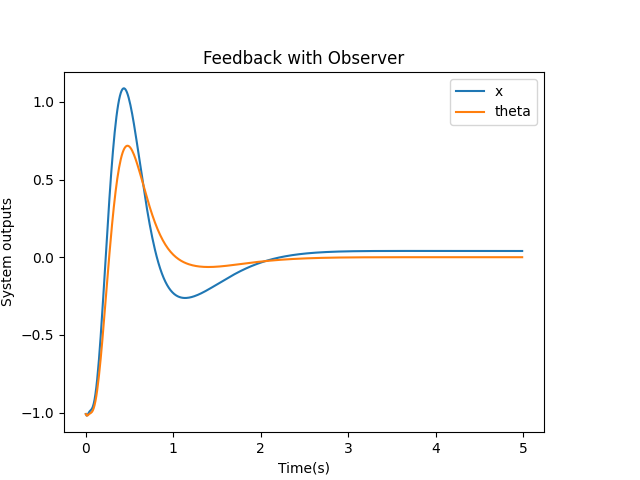
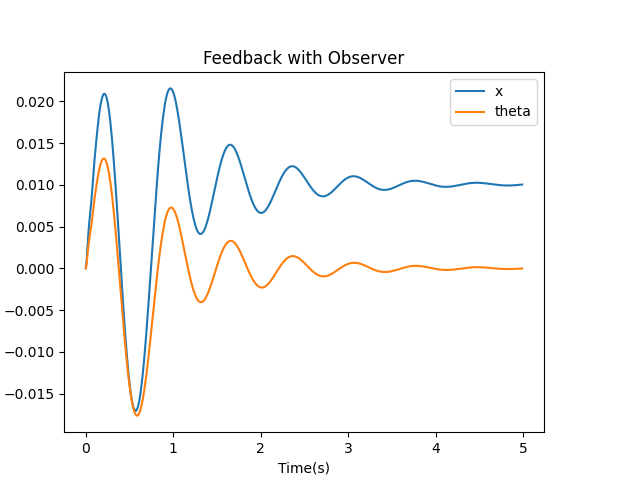
Fixed the 1.3 issue

diff --git a/scripts/questionOne.py b/scripts/questionOne.py
@@ -143,8 +143,6 @@ def dominantPoles(settlingTime: float,
     given a set of specifications, overshootPercent should be in 0->1 range
     """
     zeta, omega_n = dampingValues(settlingTime, settlingCriterion, overshootPerct)
-    print(zeta)
-    print(omega_n)
     imaginary = omega_n * math.sqrt(1 - (zeta**2))
     real = -zeta * omega_n
     roots = [{
@@ -177,8 +175,11 @@ def dampingValues(settlingTime: float,
     system given a set of specifications overshoot percentage should be in
     0 -> 1 range
     """
-    zeta = math.pow((math.pi/(math.log(overshootPercent)))**2 + 1, -0.5)
+    zeta = math.pow(((math.pi/(math.log(overshootPercent)))**2) + 1, -0.5)
     naturalFreq = 4/(zeta*settlingTime)
+    print(overshootPercent)
+    print(zeta)
+    print(naturalFreq)
     return zeta, naturalFreq
 
 

diff --git a/scripts/results/one_d.tex b/scripts/results/one_d.tex
@@ -1,5 +1,5 @@
 The observer was chosen to have eigenvalues 5 further out than the feedback. This resulted in eigenvalaues of:\begin{enumerate}
-\item$-13.333 \pm 1.213j$\\
+\item$-13.333 \pm 5.205j$\\
 \item$-66.667 \pm 1j$\end{enumerate}
 L was determined from an L0 of $\begin{bmatrix}
 1&0\\
@@ -10,10 +10,10 @@ L was determined from an L0 of $\begin{bmatrix}
 $
 
 This led to an L matrix of: \begin{equation}L = \begin{bmatrix}
-80.238&0.854\\
-905.441&-5.519\\
--2.601&79.731\\
--125.902&870.771\\
+80.767&5.315\\
+942.241&292.148\\
+-6.231&79.202\\
+-368.495&829.243\\
 \end{bmatrix}
 \end{equation}this produced a response which can be seen below in \autoref{fig:observer}
 \image{one_d.png}{Observer}{fig:observer}

diff --git a/scripts/results/one_c.tex b/scripts/results/one_c.tex
@@ -1,9 +1,9 @@
 To meet requirements the following requirements were chosen: \begin{enumerate}
-\item$-2.667 \pm 1.213j$\\
+\item$-2.667 \pm 5.205j$\\
 \item$-13.333 \pm 1j$\end{enumerate}
 This created a feedback of: 
 \begin{equation}k = \begin{bmatrix}
-24.969&24.532&27.382&-33.245\\
+99.523&39.6&-78.583&-56.796\\
 \end{bmatrix}
 \end{equation}this produced a response which can be seen below in \autoref{fig:feedback}
 \image{one_c.png}{Feedback}{fig:feedback}
